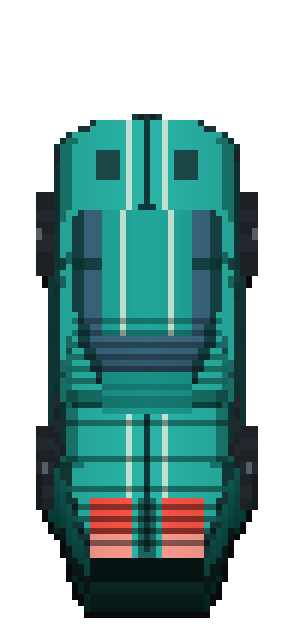
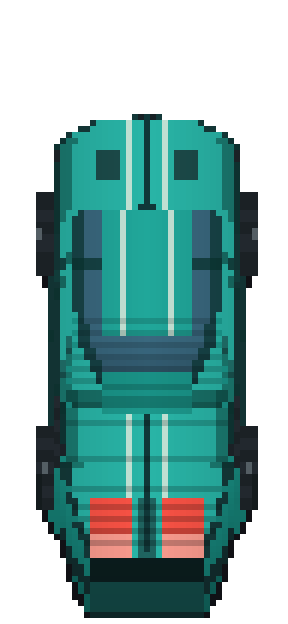
AI four-view car sheet sliced with the guide's pipeline; hero swapped into the game

diff --git a/src/main.ts b/src/main.ts
@@ -12,7 +12,7 @@ const uiCanvas = document.getElementById('ui') as HTMLCanvasElement;
 const bootError = document.getElementById('boot-error') as HTMLDivElement;
 
 const BASE_HEIGHT = 360;
-const CAR_DEF: StackDef = { layers: 28, sheetW: 48, sheetH: 76, worldW: 2.2, lift: 0.022 };
+const CAR_DEF: StackDef = { layers: 17, sheetW: 27, sheetH: 52, worldW: 1.9, lift: 0.026 };
 
 async function boot() {
   const params = new URLSearchParams(location.search);
@@ -76,7 +76,7 @@ async function boot() {
     running = true;
     sound.start();
   };
-  car.setSkin('car-hero');
+  car.setSkin('car-ai');
 
   const gotoMap = (delta: number) => {
     const m = MAPS[(mapIndex + delta + MAPS.length) % MAPS.length];

diff --git a/src/car.ts b/src/car.ts
@@ -27,10 +27,10 @@ export class Car {
   driftScore = 0;
   private skidTimer = 0;
 
-  private def: StackDef = { layers: 28, sheetW: 48, sheetH: 76, worldW: 2.2, lift: 0.022 };
+  private def: StackDef = { layers: 17, sheetW: 27, sheetH: 52, worldW: 1.9, lift: 0.026 };
 
   async init(world: World) {
-    await this.setSkin('car-red');
+    await this.setSkin('car-ai');
     this.x = world.start.x;
     this.z = world.start.z;
     this.heading = world.start.heading;

diff --git a/tools/views_to_slices.py b/tools/views_to_slices.py
@@ -1,0 +1,180 @@
+"""Turn four flat views of an object (top, side, front, back) into sprite stacking slices.
+
+  python views_to_slices.py car_views.png car_slices.png --shade 0.25
+
+The sheet holds four drawings: the top view (the tallest), the side view (the widest), then the front and back in
+reading order. The side view should face left (--side-nose right if it doesn't); the top view is turned to match it,
+so its windows sit over the tallest part of the side view (or set --top-nose up or down yourself).
+Writes one row of slices, the ground slice on the left, all the size of the top view.
+"""
+import argparse
+
+import numpy as np
+from PIL import Image
+
+
+def find_views(sheet):
+    """the drawings on the sheet, biggest first four, in reading order (rows, then left to right)"""
+    solid = sheet[..., 3] >= 128
+    grown = solid.copy()
+    for _ in range(2):                                   # pixels 2 apart still count as one drawing
+        g = grown.copy()
+        g[1:] |= grown[:-1]; g[:-1] |= grown[1:]; g[:, 1:] |= grown[:, :-1]; g[:, :-1] |= grown[:, 1:]
+        grown = g
+    seen = np.zeros(solid.shape, bool)
+    boxes = []
+    for y0, x0 in zip(*np.nonzero(grown)):
+        if seen[y0, x0]:
+            continue
+        stack, ys, xs = [(y0, x0)], [], []
+        seen[y0, x0] = True
+        while stack:
+            y, x = stack.pop()
+            ys.append(y); xs.append(x)
+            for yy, xx in ((y + 1, x), (y - 1, x), (y, x + 1), (y, x - 1)):
+                if 0 <= yy < solid.shape[0] and 0 <= xx < solid.shape[1] and grown[yy, xx] and not seen[yy, xx]:
+                    seen[yy, xx] = True
+                    stack.append((yy, xx))
+        if len(ys) > 40:
+            boxes.append((min(xs), min(ys), max(xs) + 1, max(ys) + 1))
+    big = max((b[2] - b[0]) * (b[3] - b[1]) for b in boxes)
+    boxes = [b for b in boxes if (b[2] - b[0]) * (b[3] - b[1]) >= 0.2 * big]      # drop labels and specks
+    boxes.sort(key=lambda b: (round((b[1] + b[3]) / 2 / (sheet.shape[0] / 2.2)), b[0]))
+    assert len(boxes) == 4, f"found {len(boxes)} drawings, expected top, side, front and back"
+    views = []
+    for x0, y0, x1, y1 in boxes:
+        v = sheet[y0:y1, x0:x1].copy()
+        ys, xs = np.nonzero(v[..., 3] >= 128)
+        v = v[ys.min():ys.max() + 1, xs.min():xs.max() + 1]
+        v[..., 3] = np.where(v[..., 3] >= 128, 255, 0)
+        views.append(v)
+    # the top view is the tallest drawing, the side view the widest; front and back keep reading order
+    top = max(views, key=lambda v: v.shape[0] / v.shape[1])
+    side = max((v for v in views if v is not top), key=lambda v: v.shape[1] / v.shape[0])
+    return [top, side] + [v for v in views if v is not top and v is not side]
+
+
+def strip_outline(v, dark=70):
+    """a dark pixel on the edge of a drawing is its outline: give it the colour of the pixel inside it"""
+    m = v[..., 3] > 0
+    pad = np.pad(m, 1)
+    edge = m & ~(pad[:-2, 1:-1] & pad[2:, 1:-1] & pad[1:-1, :-2] & pad[1:-1, 2:])
+    line = edge & (v[..., :3].astype(int).sum(-1) / 3 < dark)
+    out = v.copy()
+    for y, x in zip(*np.nonzero(line)):
+        for dy, dx in ((1, 0), (-1, 0), (0, 1), (0, -1), (1, 1), (1, -1), (-1, 1), (-1, -1)):
+            yy, xx = y + dy, x + dx
+            if 0 <= yy < m.shape[0] and 0 <= xx < m.shape[1] and m[yy, xx] and not line[yy, xx]:
+                out[y, x] = v[yy, xx]
+                break
+    return out
+
+
+def one_palette(views, n):
+    """map every view onto one shared palette of n colours, no dithering"""
+    px = np.concatenate([v[v[..., 3] > 0][:, :3] for v in views])
+    px = np.unique(px // 6 * 6 + 3, axis=0).astype(np.uint8)
+    pal = Image.fromarray(px.reshape(1, -1, 3), "RGB").quantize(n, method=Image.MEDIANCUT, dither=Image.NONE)
+    pal = np.array(pal.getpalette()[:n * 3]).reshape(-1, 3)
+    out = []
+    for v in views:
+        q = v.copy()
+        q[..., :3] = pal[((v[..., None, :3].astype(int) - pal[None, None]) ** 2).sum(-1).argmin(-1)]
+        out.append(q)
+    return out
+
+
+def fit(v, w, h):
+    return np.array(Image.fromarray(v).resize((w, h), Image.NEAREST))
+
+
+def edge_colour(view, row, i):
+    """a side view's colour at (row, i), pulled inside that row's drawn span"""
+    xs = np.nonzero(view[row, :, 3])[0]
+    return None if len(xs) == 0 else view[row, min(max(i, xs[0]), xs[-1]), :3]
+
+
+def carve(top, side, front, back, shade=0.0):
+    """top: (L, W). side: (H, L), column = y. front, back: (H, W). Row 0 of a side view is the top of the object.
+    shade: how much darker the sides are than the tops, most at the ground (0 = no shading).
+    Returns slices [z, y, x, rgba], z = 0 on the ground."""
+    L, W = top.shape[:2]
+    H = side.shape[0]
+    occ = np.zeros((H, L, W), bool)
+    for z in range(H):
+        r = H - 1 - z
+        along = side[r, :, 3] > 0                                    # over y
+        across = (front[r, :, 3] > 0) | (back[r, :, 3] > 0)          # over x
+        occ[z] = (top[..., 3] > 0) & along[:, None] & across[None, :]
+    vol = np.zeros((H, L, W, 4), np.uint8)
+    covered = np.zeros((L, W), bool)                                 # something higher in this column
+    for z in range(H - 1, -1, -1):
+        r = H - 1 - z
+        above = covered.copy()
+        covered |= occ[z]
+        # distance from each cell to the open air, going -x, +x, -y, +y: the nearest one is the face it shows
+        o = occ[z]
+        ix = np.arange(W)[None, :].repeat(L, 0)
+        iy = np.arange(L)[:, None].repeat(W, 1)
+        d = np.stack([
+            ix - np.maximum.accumulate(np.where(~o, ix, -1), axis=1),
+            np.minimum.accumulate(np.where(~o, ix, W)[:, ::-1], axis=1)[:, ::-1] - ix,
+            iy - np.maximum.accumulate(np.where(~o, iy, -1), axis=0),
+            np.minimum.accumulate(np.where(~o, iy, L)[::-1], axis=0)[::-1] - iy,
+        ])
+        face, depth = d.argmin(0), d.min(0)
+        for y, x in zip(*np.nonzero(o)):
+            if not above[y, x]:
+                c = top[y, x, :3]                                    # seen from above
+            elif depth[y, x] > 2:                                    # under a higher part: carry its colour down,
+                c = vol[z + 1, y, x, :3]                             # it shows as the face below that part's edge
+            else:
+                f = face[y, x]
+                c = (edge_colour(side, r, y) if f < 2 else edge_colour(back, r, x) if f == 2
+                     else edge_colour(front, r, x))
+                if c is None:
+                    c = top[y, x, :3]
+            if above[y, x] and depth[y, x] <= 2 and shade:           # a side face: darker, more so near the ground
+                c = (np.asarray(c, float) * (1 - shade * (1 - z / max(H - 1, 1)) - shade * 0.4)).clip(0, 255)
+            vol[z, y, x] = (*np.asarray(c, np.uint8), 255)
+    return vol
+
+
+def match_top(top, side):
+    """'down' or 'up': which way round the top view puts its windows over the tall part of the side view"""
+    tall = (fit(side, side.shape[1], side.shape[0])[..., 3] > 0).sum(0)
+    tall = np.interp(np.linspace(0, len(tall) - 1, top.shape[0]), np.arange(len(tall)), tall) >= 0.8 * tall.max()
+    dark = ((top[..., :3].astype(int).sum(-1) < 240) & (top[..., 3] > 0)).mean(1)
+    return "down" if (dark * tall).sum() >= (dark[::-1] * tall).sum() else "up"
+
+
+def views_to_slices(sheet, top_nose="auto", side_nose="left", colours=24, shade=0.0):
+    top, side, front, back = one_palette([strip_outline(v) for v in find_views(sheet)], colours)
+    if side_nose == "left":
+        side = side[:, ::-1]                                         # now column = y, front at the end
+    if top_nose == "auto":
+        top_nose = match_top(top, side)
+    if top_nose == "up":
+        top = top[::-1]
+    L, W = top.shape[:2]
+    H = round(side.shape[0] * L / side.shape[1])                     # height in px at the top view's scale
+    return carve(top, fit(side, L, H), fit(front, W, H), fit(back, W, H), shade)
+
+
+def main():
+    p = argparse.ArgumentParser()
+    p.add_argument("sheet")
+    p.add_argument("out")
+    p.add_argument("--top-nose", choices=["auto", "up", "down"], default="auto")
+    p.add_argument("--side-nose", choices=["left", "right"], default="left")
+    p.add_argument("--colours", type=int, default=24)
+    p.add_argument("--shade", type=float, default=0.0, help="darken the sides, 0.25 is a good start")
+    a = p.parse_args()
+    sheet = np.array(Image.open(a.sheet).convert("RGBA"))
+    vol = views_to_slices(sheet, a.top_nose, a.side_nose, a.colours, a.shade)
+    Image.fromarray(np.concatenate(list(vol), axis=1)).save(a.out)
+    print(f"{len(vol)} slices of {vol.shape[2]} x {vol.shape[1]} px -> {a.out}")
+
+
+if __name__ == "__main__":
+    main()
